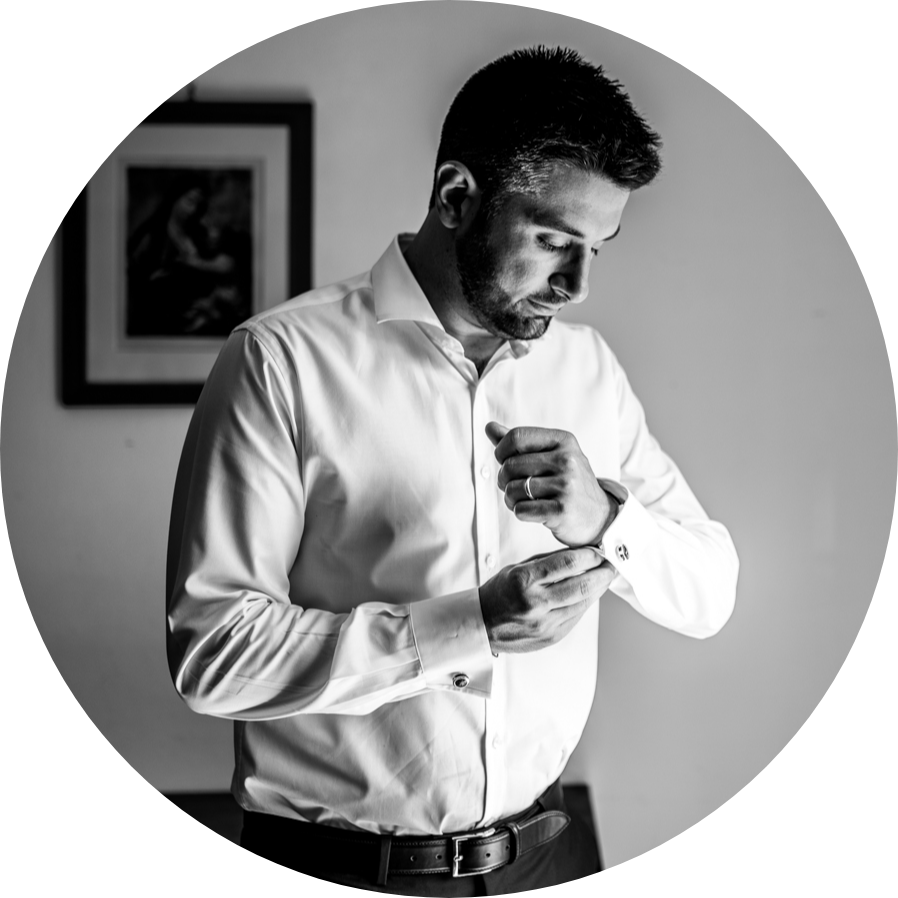
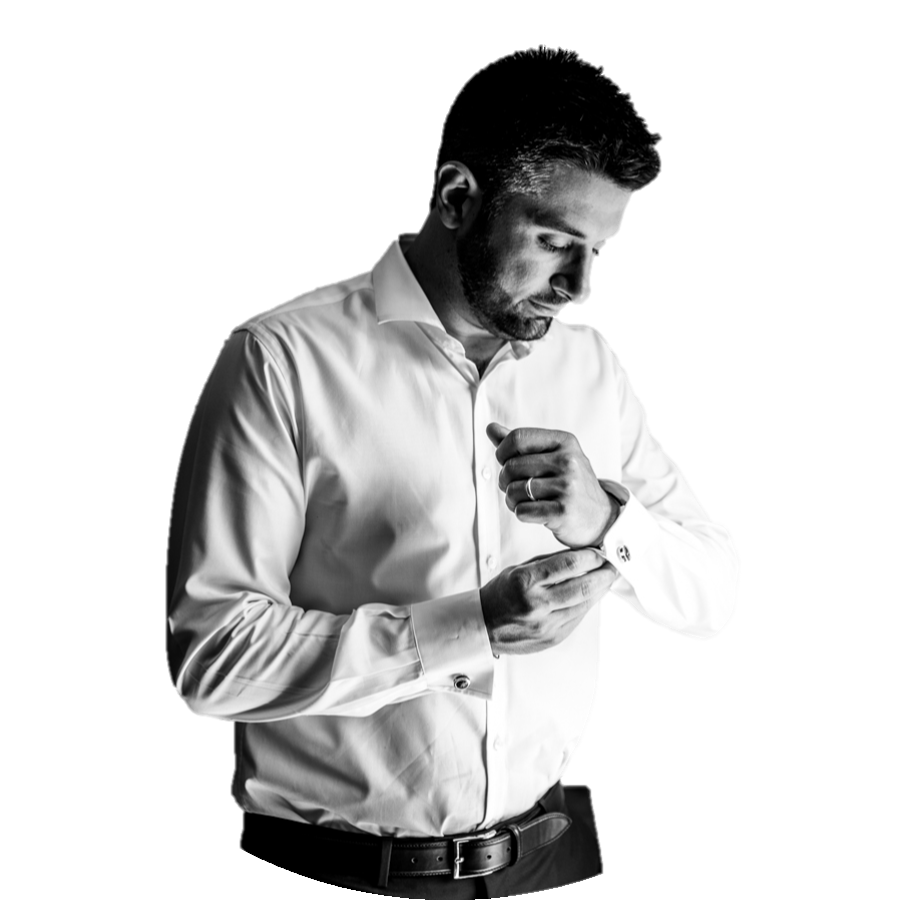
Deploy CV

diff --git a/src/components/Summary.jsx b/src/components/Summary.jsx
@@ -1,0 +1,87 @@
+import React, { useContext } from "react";
+import { LanguageContext } from "../context/LanguageContext";
+import profile from "../images/profile.png";
+import SummaryData from "../data/SummaryData";
+import Info from "./Info";
+import Presentation from "./Presentation";
+
+export default function Summary() {
+  const language = useContext(LanguageContext)[0];
+
+  return (
+    <div className="summary container-fluid">
+      <div className="row">
+        <div className="col-md-6">
+          <img className="profile-img frame" src={profile} alt="profile" />
+        </div>
+
+
+          <div className="row col-md-6">
+
+            <div className="row col-md-12">
+              <div className="col-md-1" style={{ backgroundColor: "green" }}>
+              <div className="profile-icon">
+                <i className="fa fa-phone profile-icon"></i>
+              </div>
+              </div>
+              <div className="col-md-8 info-text" style={{ backgroundColor: "red" }}>
+                +44 (0) 7478 992 706
+              </div>
+            </div>
+
+            <div className="row col-md-12">
+              <div className="col-md-1" style={{ backgroundColor: "green" }}>
+                <div className="profile-icon">
+                  <i className="fa fa-envelope profile-icon"></i>
+                </div>
+              </div>
+              <div className="col-md-8 info-text" style={{ backgroundColor: "red" }}>
+                 <a href="mailto:diego.bettega.90@gmail.com">diego.bettega.90@gmail.com</a>
+              </div>
+            </div>
+
+            <div className="row col-md-12">
+              <div className="col-md-1" style={{ backgroundColor: "green" }}>
+              <div className="profile-icon">
+                <i className="fa fa-map-marker profile-icon"></i>
+              </div>
+              </div>
+              <div className="col-md-8 info-text" style={{ backgroundColor: "red" }}>
+              <a className="info-text" href="https://www.google.com/maps/place/150+Rusthall+Ave,+London+W4+1BL/@51.5005084,-0.2622953,17z/data=!3m1!4b1!4m5!3m4!1s0x48760e1640916611:0x4a2392a9aaa72312!8m2!3d51.5005084!4d-0.2601066"> 150A Rusthall Avenue, Chiswick, London, W4
+            1BS</a>
+              </div>
+            </div>
+
+            <div className="row col-md-12">
+              <div className="col-md-1" style={{ backgroundColor: "green" }}>
+              <div className="profile-icon">
+                <i className="fa fa-linkedin profile-icon"></i>
+              </div>
+              </div>
+              <div className="col-md-8 info-text" style={{ backgroundColor: "red" }}>
+                <a className="info-text" href="https://www.linkedin.com/in/diego-bettega-59a649b7/"> LinkedIn Profile</a>
+              </div>
+            </div>
+
+            <div className="row col-md-12">
+              <div className="col-md-1" style={{ backgroundColor: "green" }}>
+              <div className="profile-icon">
+                <i className="fa fa-github profile-icon"></i>
+              </div>
+              </div>
+              <div className="col-md-8 info-text" style={{ backgroundColor: "red" }}>
+                 <a className="info-text" href="https://github.com/diegobettega?tab=repositories"> GitHub Repository</a>
+              </div>
+            </div>
+
+          </div>
+
+
+
+
+
+      </div>
+      <Presentation />
+    </div>
+  );
+}

diff --git a/src/components/Navbar.jsx b/src/components/Navbar.jsx
@@ -1,25 +1,17 @@
 import React, { useContext } from "react";
-import Flag from "./Flag";
 import { LanguageContext } from "../context/LanguageContext";
+import Flag from "./Flag";
+import NavbarData from "../data/NavbarData";
 
-function Navbar() {
-
+export default function Navbar() {
   const language = useContext(LanguageContext)[0];
 
-  var toshow = ""
-
-  if (language==="UK") {
-    toshow = "Summary"
-  } else {
-    toshow = "Sommario"
-  }
-
   return (
-    <nav class="navbar fixed-top navbar-expand-lg navbar-dark">
-    <Flag />
+    <nav className="navbar fixed-top navbar-expand-lg navbar-dark">
+      <Flag />
       <div class="navbar-brand">Diego Bettega</div>
       <button
-        class="navbar-toggler"
+        className="navbar-toggler"
         type="button"
         data-toggle="collapse"
         data-target="#navbarSupportedContent"
@@ -27,33 +19,33 @@ function Navbar() {
         aria-expanded="false"
         aria-label="Toggle navigation"
       >
-        <span class="navbar-toggler-icon"></span>
+        <span className="navbar-toggler-icon"></span>
       </button>
-      <div class="collapse navbar-collapse" id="navbarSupportedContent">
-        <ul class="navbar-nav ml-auto">
-          <li class="nav-item">
-            <a class="nav-link" href="#summary">
-              {toshow}
+      <div className="collapse navbar-collapse" id="navbarSupportedContent">
+        <ul className="navbar-nav ml-auto">
+          <li className="nav-item">
+            <a className="nav-link" href="#summary">
+              {NavbarData[language][0]}
             </a>
           </li>
-          <li class="nav-item">
-            <a class="nav-link" href="#work-experience">
-              Work Experience
+          <li className="nav-item">
+            <a className="nav-link" href="#work-experience">
+              {NavbarData[language][1]}
             </a>
           </li>
-          <li class="nav-item">
-            <a class="nav-link" href="#projects">
-              Projects
+          <li className="nav-item">
+            <a className="nav-link" href="#projects">
+              {NavbarData[language][2]}
             </a>
           </li>
-          <li class="nav-item">
-            <a class="nav-link" href="#education">
-              Education
+          <li className="nav-item">
+            <a className="nav-link" href="#education">
+              {NavbarData[language][3]}
             </a>
           </li>
-          <li class="nav-item">
-            <a class="nav-link" href="#courses">
-              Courses
+          <li className="nav-item">
+            <a className="nav-link" href="#courses">
+              {NavbarData[language][4]}
             </a>
           </li>
         </ul>
@@ -61,5 +53,3 @@ function Navbar() {
     </nav>
   );
 }
-
-export default Navbar;

diff --git a/src/App.css b/src/App.css
@@ -42,7 +42,7 @@
 /*Body*/
 body {
   font-family: -apple-system,BlinkMacSystemFont,"Segoe UI",Roboto,"Helvetica Neue",Arial,"Noto Sans",sans-serif,"Apple Color Emoji","Segoe UI Emoji","Segoe UI Symbol","Noto Color Emoji";
-  padding-top: 88px;
+  padding-top: 85px;
   background-color: #dfd3c3;
 }
 
@@ -57,13 +57,15 @@ body {
   height: auto;
 }
 .uk-flag{
+  transition-duration: 0.5s;
   opacity: 0.5;
 }
 .it-flag{
+  transition-duration: 0.5s;
   opacity: 1;
 }
 .navbar-brand {
-  font-size: 2rem;
+  font-size: 2.5rem;
   color: #fff;
   padding-left: 1rem;
 }
@@ -74,7 +76,48 @@ body {
   opacity: 1;
 }
 .nav-link {
-  font-size: 1.2rem;
+  font-size: 1.5rem;
+}
+
+
+
+/*Summary*/
+.summary {
+  background-color: #1b262c;
+  color:#fff;
+  text-align: center;
+  padding-top: 5rem;
+}
+.frame {
+    position: relative;
+}
+.profile-img {
+  max-height: 100%;
+  max-width: 100%;
+  width: auto;
+  height: auto;
+  position: absolute;
+  top: 0;
+  bottom: 0;
+  left: 0;
+  right: 0;
+  margin: auto;
+  display: inline-block;
+  vertical-align: middle;
+  padding-left: 8rem;
+}
+.profile-icon {
+  font-size: 2rem;
+  color:#fff;
+  vertical-align: middle;
+  align-items: center;
+  align-self: center;
+  align-content: center;
+}
+.info-text{
+  color: #fff;
+  text-align: left;
+  padding: 2rem;
 }
 
 

diff --git a/src/components/Info.jsx b/src/components/Info.jsx
@@ -1,0 +1,27 @@
+import React, { useState } from "react";
+
+export default function Info() {
+  return (
+    <div>
+    <div className="col-md-8 row">
+
+      <div className="col-md-1" style={{ backgroundColor: "green" }}>
+        <i className="fa fa-phone profile-icon"></i>
+      </div>
+      <div style={{ backgroundColor: "red" }} className="col-md-11">
+        +44 (0) 7478 992 706
+      </div>
+
+      <div className="col-md-1" style={{ backgroundColor: "green" }}>
+        <i className="fa fa-phone profile-icon"></i>
+      </div>
+      <div style={{ backgroundColor: "red" }} className="col-md-11">
+        +44 (0) 7478 992 706
+      </div>
+      
+    </div>
+
+
+    </div>
+  );
+}

diff --git a/src/App.js b/src/App.js
@@ -3,6 +3,7 @@ import { LanguageContextProvider } from "./context/LanguageContext";
 import './App.css';
 
 import Navbar from "./components/Navbar";
+import Summary from "./components/Summary";
 import Footer from "./components/Footer";
 
 function App() {
@@ -10,6 +11,7 @@ function App() {
     <div className="App">
     <LanguageContextProvider>
     <Navbar />
+    <Summary />
       <h1 class="test"> Diego CV 22</h1>
       <h1 class="test"> Diego CV 22</h1>
       <h1 class="test"> Diego CV 22</h1>

diff --git a/src/components/Presentation.jsx b/src/components/Presentation.jsx
@@ -1,0 +1,17 @@
+import React, { useContext } from "react";
+import { LanguageContext } from "../context/LanguageContext";
+import YoutubeData from "../data/YoutubeData";
+
+export default function Presentation() {
+
+  const language = useContext(LanguageContext)[0];
+  const link = YoutubeData[language];
+
+  return (
+    <div>
+    <h1>{link}</h1>
+    <iframe className="youtube-frame" width="420" height="345" src={link}>
+    </iframe>
+    </div>
+  );
+}

diff --git a/src/components/Flag.jsx b/src/components/Flag.jsx
@@ -55,6 +55,7 @@ export default function Flag() {
         onMouseOver={handleMouseOverUK}
         onMouseOut={handleMouseOutUK}
       />
+      &nbsp;
       <img
         className="navbar-symbol it-flag"
         src={itflag}

diff --git a/src/data/NavbarData.js b/src/data/NavbarData.js
@@ -1,0 +1,6 @@
+const sections = {
+  "UK": ["Summary", "Work Experience", "Projects", "Education", "Courses"],
+  "IT": ["Profilo", "Esperienza Lavorativa", "Progetti", "Educazione", "Corsi"]
+};
+
+export default sections;

diff --git a/src/data/SummaryData.js b/src/data/SummaryData.js
@@ -1,0 +1,6 @@
+const sections = {
+  "UK": ["Summary", "Work Experience", "Projects", "Education", "Courses"],
+  "IT": ["Profilo", "Esperienza Lavorativa", "Progetti", "Educazione", "Corsi"]
+};
+
+export default sections;

diff --git a/src/data/YoutubeData.js b/src/data/YoutubeData.js
@@ -1,0 +1,6 @@
+const sections = {
+  "UK": "https://www.youtube.com/watch?v=q6Di5-rEIeg",
+  "IT": "https://www.youtube.com/watch?v=v5eFA1zqTiY"
+};
+
+export default sections;
